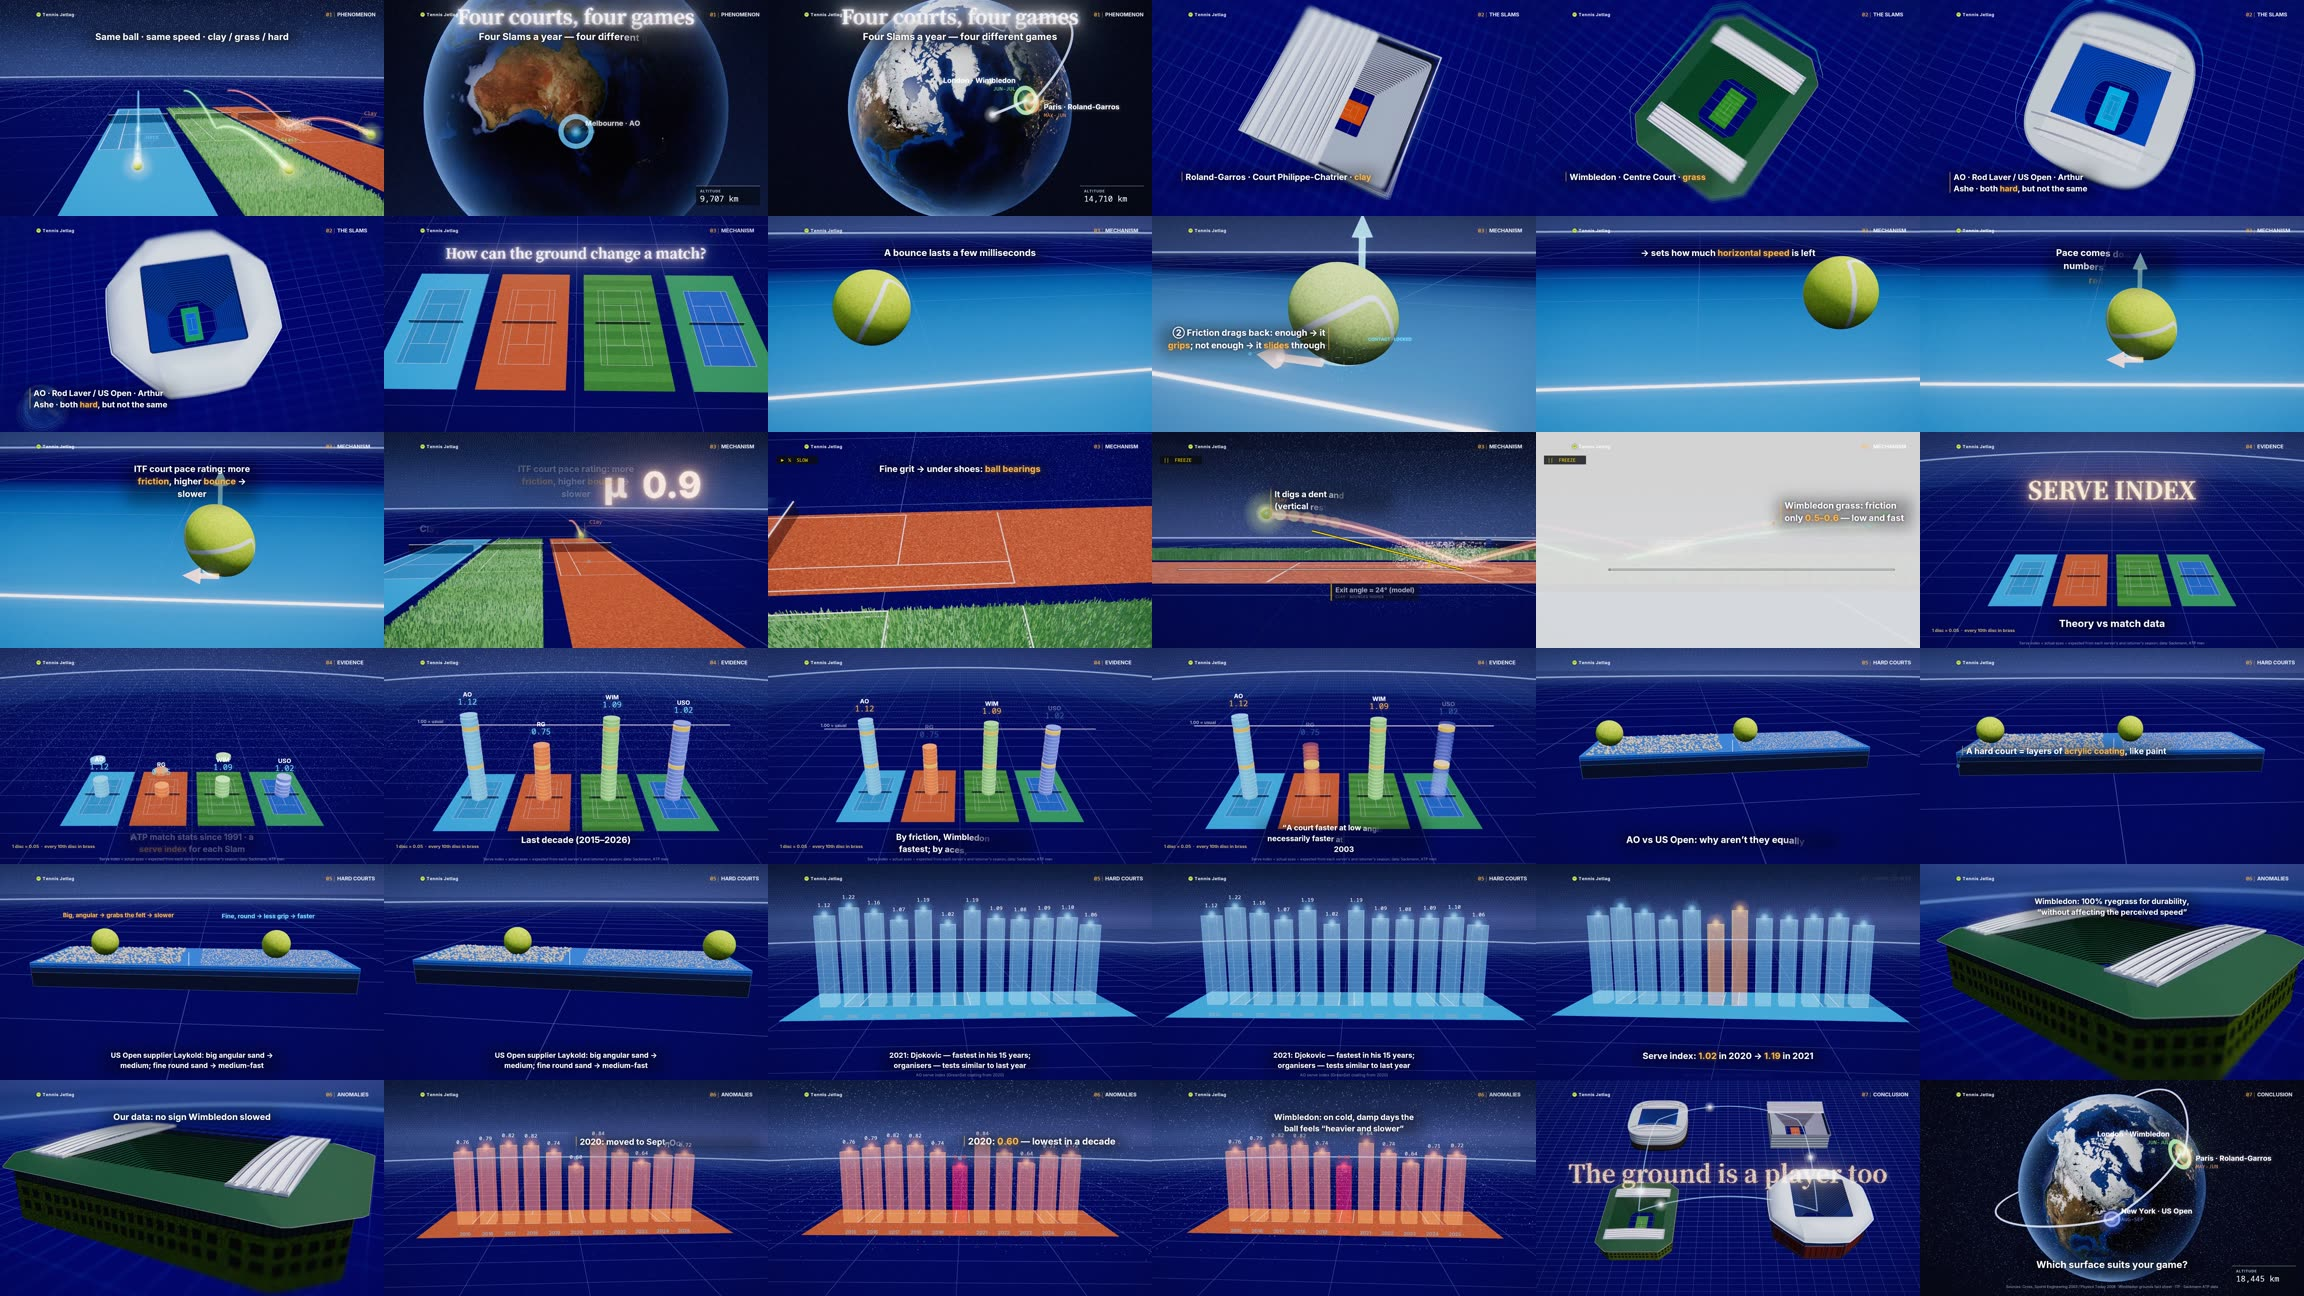
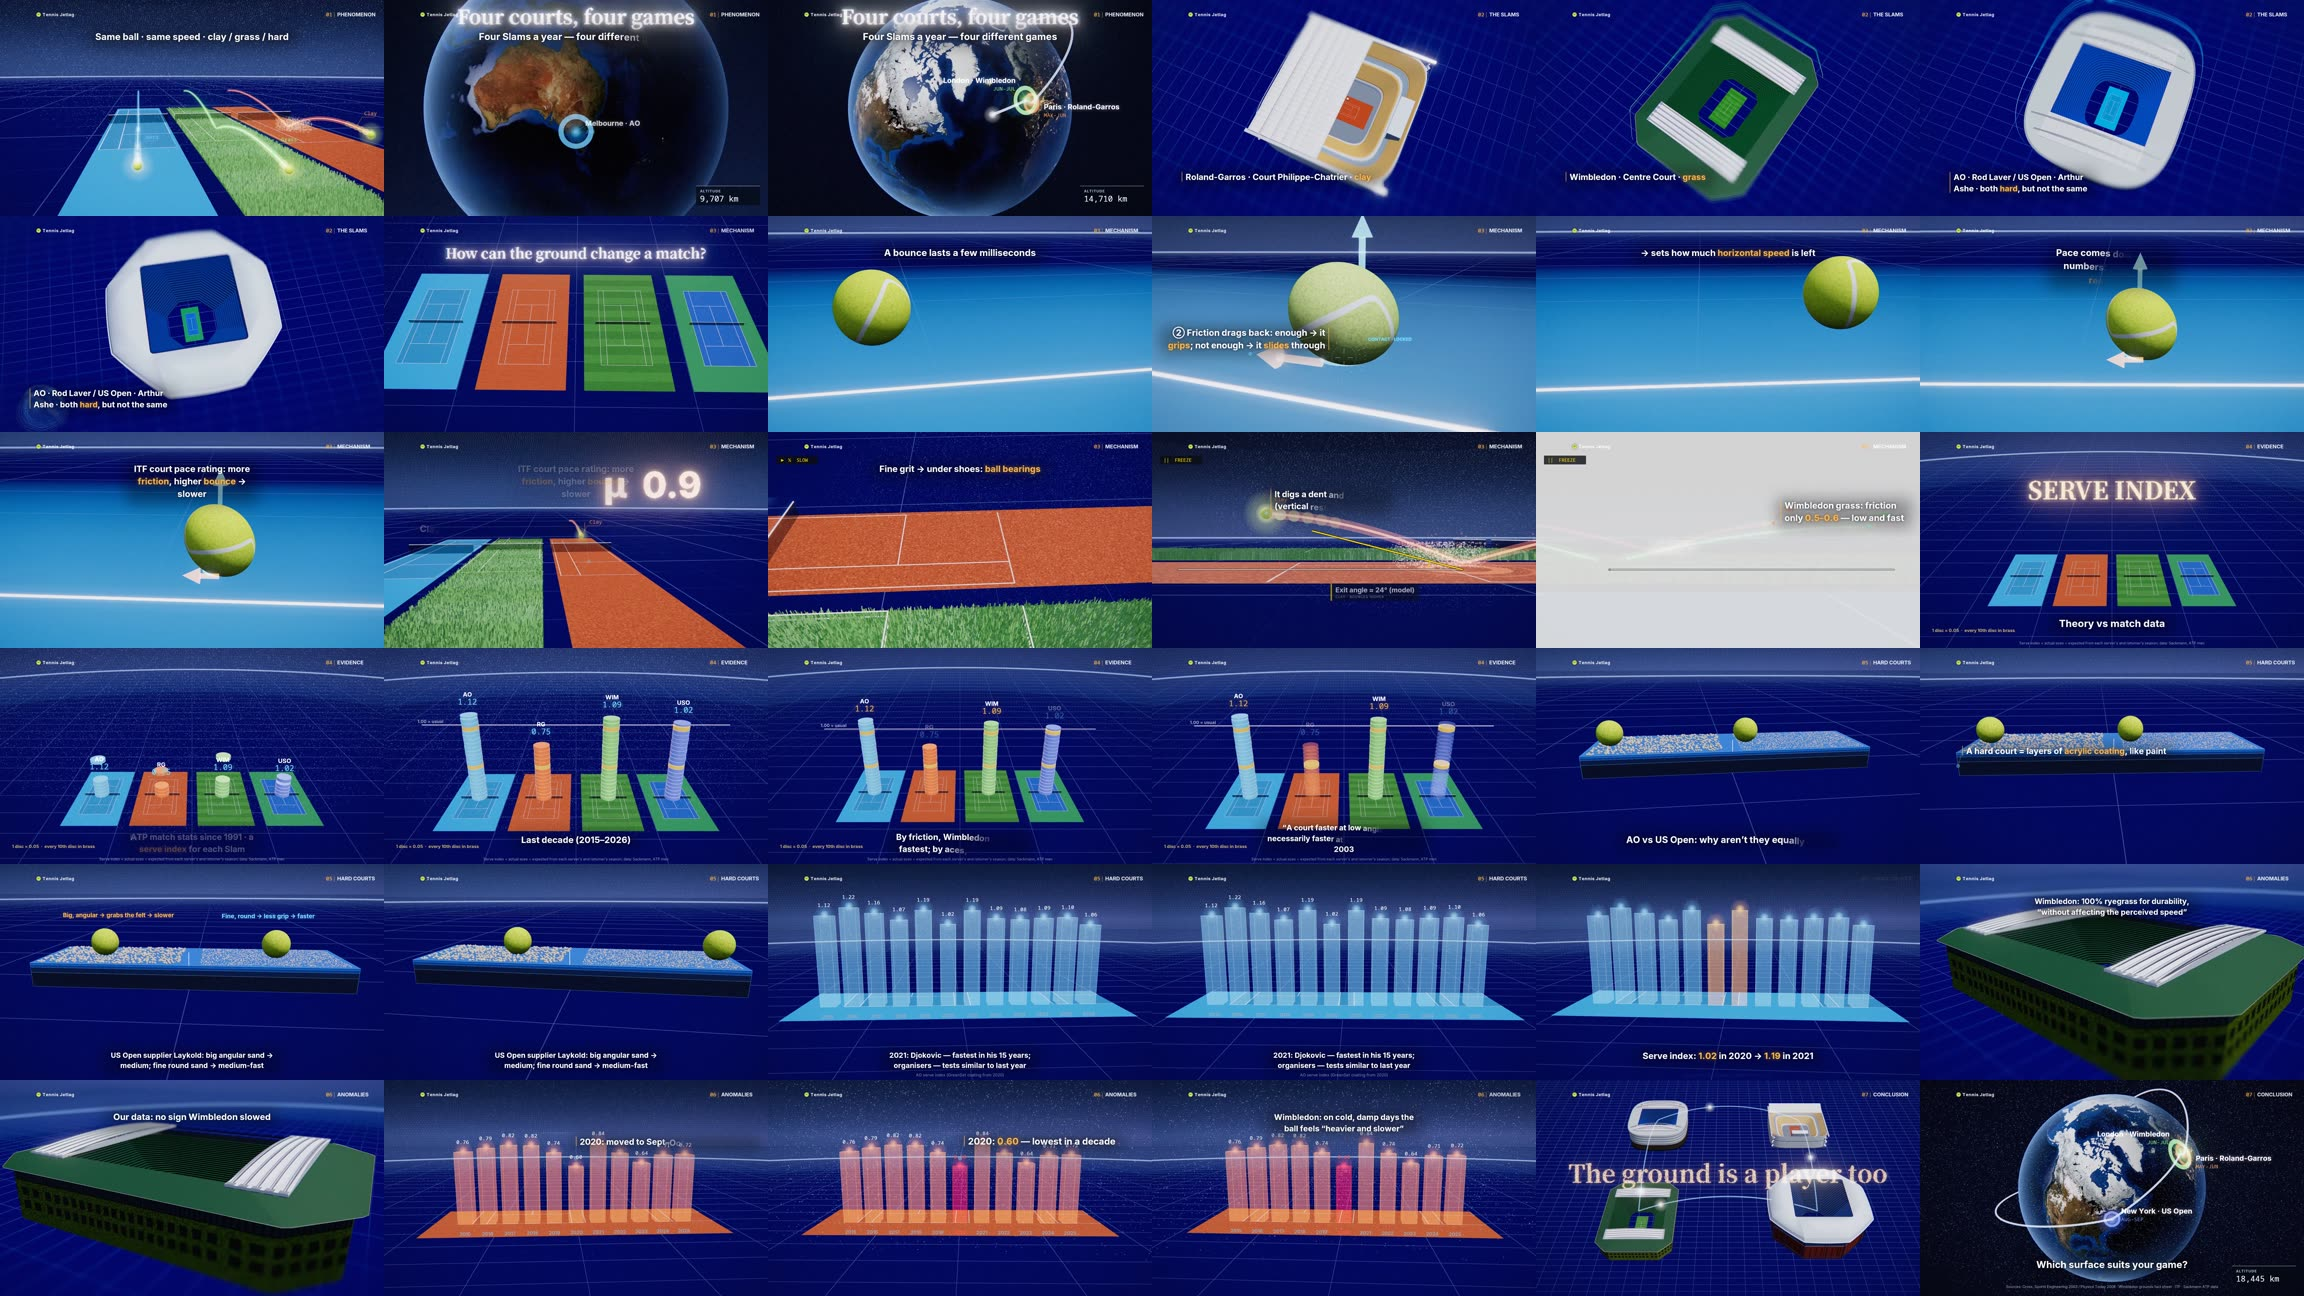
EP05 中英版第三版：法网换所有者自建的夏蒂埃模型、BGM 补足片尾、封面精修；QC 0 项不合格，Release 附件按 replace 替换；删 pushed.json 以重推
Claude-Session: https://claude.ai/code/session_011V3sK5yxYXvgeHo64wnqUL

Changed region(s): [[0.5312, 0.0, 0.625, 0.1543], [0.75, 0.8333, 0.8125, 0.8951]]

diff --git a/output/2026-11-02/vibetennis/vibetennis-court-speed-2026-en/copy.html b/output/2026-11-02/vibetennis/vibetennis-court-speed-2026-en/copy.html
@@ -250,7 +250,7 @@ textarea { display: block; width: 100%; resize: vertical; border: 1px solid var(
 
 Same ball, same speed — clay, grass and hard courts send back three different balls.
 
-The secret is in the milliseconds of contact: the ball&#x27;s bottom slides, then the court grips it. Friction decides how much speed it keeps; bounce decides how high it kicks.
+The secret is in the milliseconds of contact: the ball&#x27;s bottom slides, friction drags it back, and if friction is high enough the court grips it. Friction decides how much speed it keeps; bounce decides how high it kicks.
 
 Clay friction reaches 0.9 at low angles, and the ball digs a dent and kicks up. Wimbledon grass: 0.5–0.6, low and fast.
 
